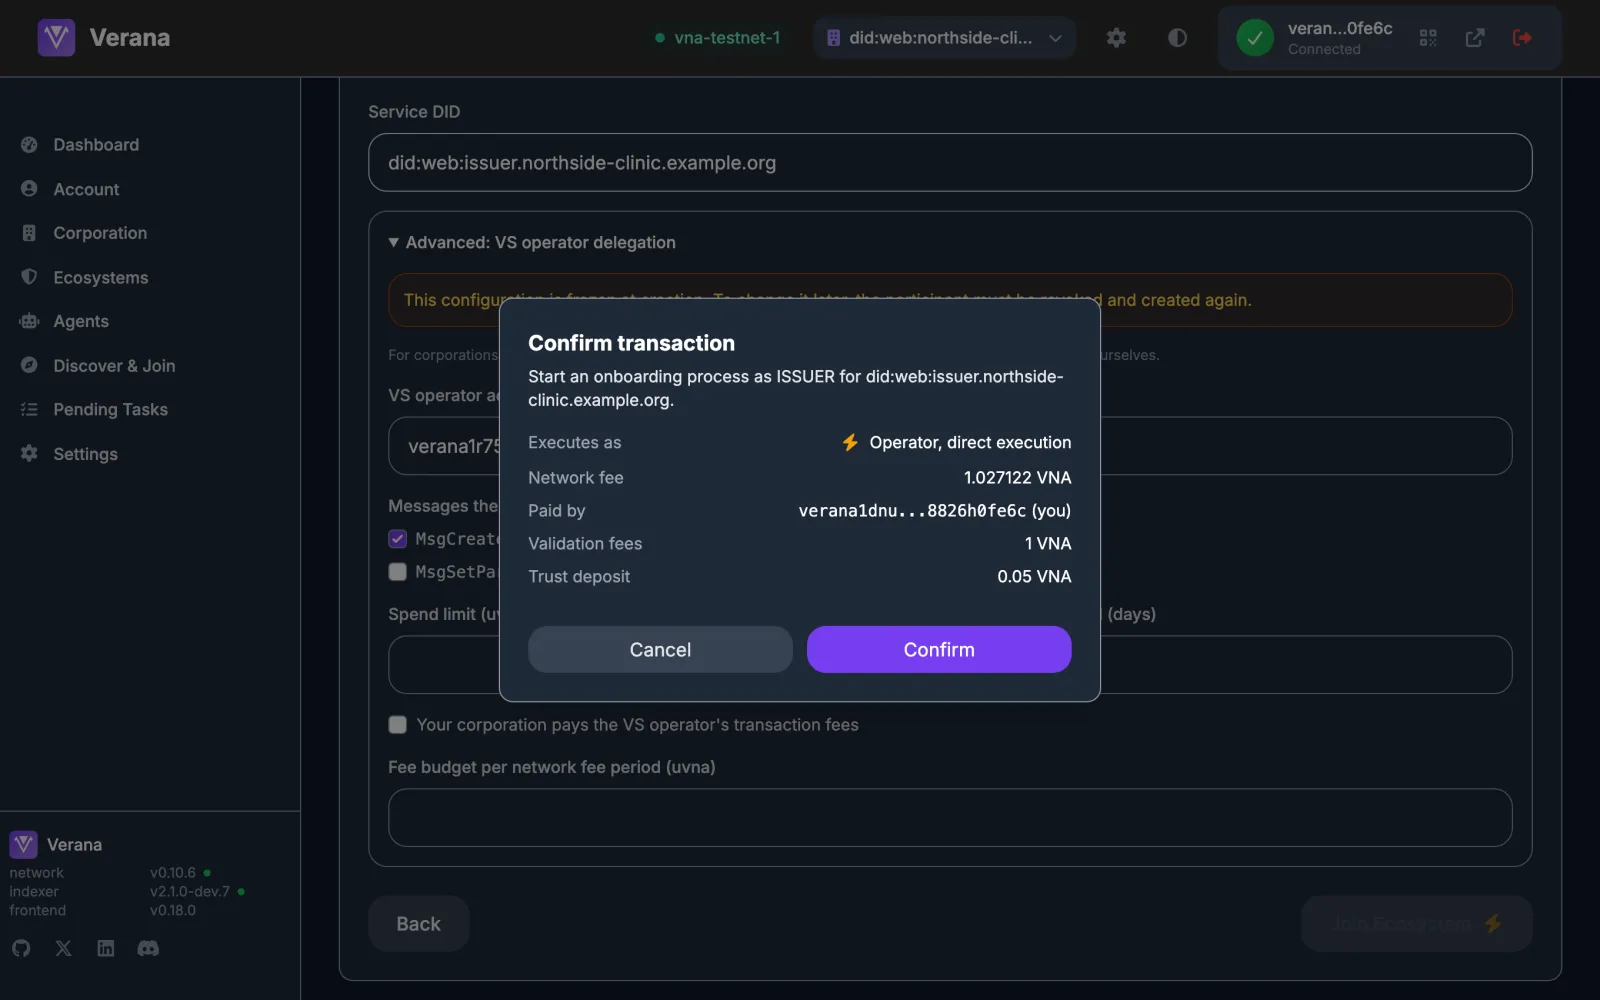
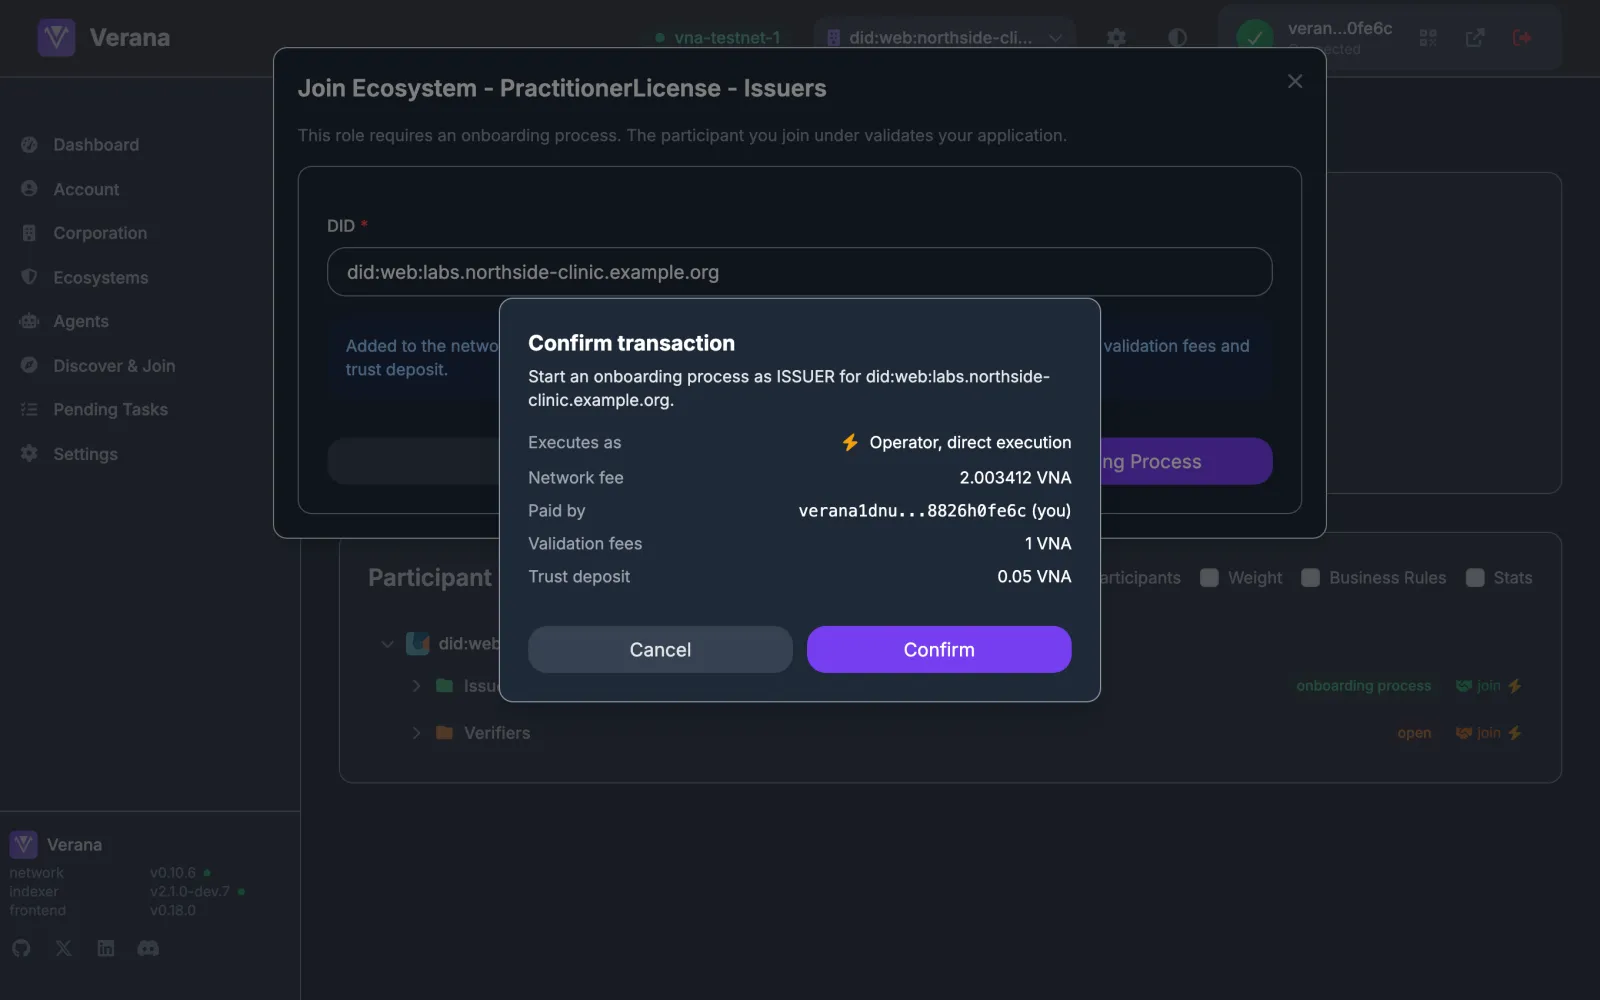
docs: join an ecosystem from the participant tree

diff --git a/docs/build/ecosystems/35-join-an-ecosystem.md b/docs/build/ecosystems/35-join-an-ecosystem.md
@@ -1,93 +1,96 @@
 ---
 title: Join an ecosystem
-description: "Find an ecosystem in Discover & Join, then use the join wizard to apply for a role: schema, role, governance framework, validator, service DID and the agent's delegation."
+description: "Find the ecosystem, open the schema's participant tree, join under the participant that will validate you, accept the governance framework, fill the form and sign."
 sidebar_position: 35
 persona: ecosystem-builder
 surface: frontend
-verified_on: 2026-10-14 (testnet v0.10.6, frontend 0.18 with the join wizard of frontend#503)
+verified_on: 2026-10-16 (testnet v0.10.6, frontend 0.18 with frontend#549 and frontend#550)
 ---
 
 # Join an ecosystem
 
-This is the other side of the tree: your corporation applies to issue or verify an ecosystem's credential. The ecosystem (or one of its grantors) validates the application from its [Pending Tasks](./40-validate-applicants.md); for an open role the participant exists at once.
+This is the other side of the tree: your corporation applies to issue, verify or hold an ecosystem's credential. You join from the schema's participant tree, under the participant you want as validator. When the role needs an onboarding process, that participant validates your application from its [Pending Tasks](./40-validate-applicants.md); when the role is open, your participant exists at once.
 
 ## Prerequisites
 
-- A corporation acting in the frontend, with an operator authorization covering the participant messages. See [Create a corporation](./10-create-corporation.md).
+- A corporation acting in the frontend, with an operator authorization covering the participant messages. See [Create a corporation](./10-create-corporation.md). A holder of a permissionless schema needs neither, see [Holders](#holders).
 - The DID of the service that will hold the accreditation: your Verifiable Service's agent, already deployed.
-- The account of that agent, if it will act for the accreditation itself (the VS operator, below).
-- Enough VNA for the validation fees the validator charges, the trust deposit, and the network fee. The wizard shows them before you sign.
+- Enough VNA. The validation fees and the trust deposit come from the corporation's account, the network fee from the account that signs. The form and the confirmation dialog show them before you sign.
 
 ## Find the ecosystem
 
-**Discover & Join** lists every ecosystem on the network with its controller, its active schemas and its figures. Search by name or DID, sort, hide the ecosystems you own or already take part in, and open the governance framework with **EGF** before you commit. Each schema card shows its onboarding modes and validity periods.
+**Discover & Join** lists every ecosystem on the network with its controller, its active schemas and its figures. Search by name or DID, sort, hide the ecosystems you own or already take part in, and open the governance framework with **EGF** before you commit. Each schema card shows its onboarding modes and validity periods. **View Ecosystem** opens the ecosystem page.
 
 <Screenshot name="join/discover" alt="Discover & Join listing an ecosystem with its credential schema" />
 
-**Join** opens the wizard for that ecosystem.
+**Ecosystems** lists only the ecosystems your corporation controls or already takes part in, which is the quicker way back to one.
 
-## The join wizard
+## Open the participant tree
+
+On the ecosystem page, the **Participants** action of a schema card opens that schema's participant tree; the schema page has the same **Participants** button.
+
+The tree starts at the ecosystem's root participant. Under each participant sit folders for the roles that can join below it: **Issuers** and **Verifiers** under the root, or **Issuer Grantors** and **Verifier Grantors** when the schema uses grantors, then **Holders** under each issuer. Each folder shows its onboarding mode, **onboarding process** or **open**, and a **join** action.
+
+<Screenshot name="join/tree" alt="The participant tree of a schema with its role folders, their onboarding mode and the join action" />
+
+Where you join is your choice of validator. The folder you pick sits under one participant, and that participant validates your application, or anchors your entry for an open role. To join as issuer under a grantor rather than under the ecosystem, open the grantor's node and join its **Issuers** folder. Tick **Business Rules** to compare the fees of the candidates, and **Unresolvable services** to show participants whose DID does not resolve yet.
+
+**join** is offered under an active participant only. Without a wallet it asks you to connect; without an acting corporation it is disabled and its tooltip says why. Its icon says how it will run: a lightning bolt when your operator authorization covers the message, a gavel when it opens a proposal for the corporation's members.
+
+## Join
 
 <StepThrough>
-<Step title="Review the ecosystem" shot="join/step-review">
+<Step title="Accept the governance framework" shot="join/tree-egf">
 
-Who controls the ecosystem, its DID and trust state, and its figures. Continue when you are on the right one.
-
-</Step>
-<Step title="Pick the schema" shot="join/step-schema">
-
-The ecosystem's active credential schemas. Pick the credential you will issue or verify.
+The join dialog opens on the ecosystem governance framework in force, in the language you choose, with its on-chain digest. **Verified** means the document the frontend fetched matches the digest; if it does not, you cannot accept it. Read it, tick the acceptance, **Continue**.
 
 </Step>
-<Step title="Pick your role" shot="join/step-role">
+<Step title="Onboarding process: your DID" shot="join/tree-op-form">
 
-Issuer, verifier, or a grantor role when the schema has one, each with what it means. Holders do not onboard on chain when the schema is permissionless for holders: the wizard says so and links to the accredited issuers instead.
-
-</Step>
-<Step title="Accept the governance framework" shot="join/step-egf">
-
-The ecosystem governance framework in force, in the language you choose, with its on-chain digest. **Verified** means the document the frontend fetched matches the digest; if it does not, you cannot accept it. Read it, then tick the acceptance.
+For a role with an onboarding process, enter the **DID** that will hold the accreditation. The form shows what the transaction needs on top of the network fee: the validator's validation fees, escrowed until it decides, and your trust deposit. **Confirm & Start Onboarding Process**.
 
 </Step>
-<Step title="Pick the validator" shot="join/step-validator">
+<Step title="Open role: DID, window and fees" shot="join/tree-self-create">
 
-The participants that may validate your application for this role, with their fees. For an open role, this is the participant your entry will sit under.
-
-</Step>
-<Step title="Confirm and submit" shot="join/step-confirm">
-
-The summary (schema, role, onboarding transaction, validator, validation fees, trust deposit), then the **Service DID** that will hold the accreditation. For an open role you also set the start, the end and your own fees. **Join Ecosystem**.
+For an open role you create the participant yourself: the **DID**, the effective window (an empty start means now, an empty end means no end date) and, for an issuer, the fees you will charge, in uvna. **Confirm & Self Create Participant**.
 
 </Step>
 </StepThrough>
 
-### The agent's delegation
-
-**Advanced: VS operator delegation** lets your Verifiable Service's agent act for this accreditation without an operator of the corporation in the loop: the **VS operator account** (the agent's account), the messages it may run for this participant, an optional spend limit per period, and whether the corporation pays the agent's network fees, with a budget. It is frozen at creation: changing it later means revoking the participant and creating it again. Leave it empty if your operators sign for the participant from the frontend.
-
-:::warning Use the agent's own account
-The VS operator must not be an account that already holds an operator authorization of your corporation; the chain refuses the pair. Give the agent its own account.
-:::
-
 ## Sign
 
-The confirmation dialog shows the onboarding transaction, the network fee, the validation fees escrowed for the validator and the trust deposit, before the wallet asks you to sign.
+The confirmation dialog shows the transaction, the network fee and who pays it, the validation fees escrowed for the validator and the trust deposit, before the wallet asks you to sign.
 
 <Screenshot name="join/confirm-dialog" alt="The confirmation dialog of an onboarding process start" />
 
 ## After you submit
 
-- For a role that needs validation, your participant is created with its onboarding process **pending approbation**. The validator sees it in its Pending Tasks, and its agent and yours run the evidence conversation. See [Validate applicants](./40-validate-applicants.md).
+- For a role with an onboarding process, your participant appears in the tree under the validator, its onboarding process pending. Pending entries always show, whatever the filters. The validator finds it in its Pending Tasks, and its agent and yours run the evidence conversation. See [Validate applicants](./40-validate-applicants.md).
 - While it is pending, **Cancel Request** on your participant card cancels it and returns the escrowed fees.
 - Once validated, the participant is **active** until its end date. **Renew Onboarding Process** before the end starts a renewal with the same validator.
-- For an open role, the participant is effective from its start; no validation is needed.
+- For an open role, the participant exists at once and is effective from its start; no validation is needed. Tick **Unresolvable services** if its DID does not resolve yet.
 
 <Screenshot name="participants/card-own" alt="The participant card of an active issuer, seen by its own corporation" />
+
+The join form does not set a VS operator: an accreditation created from the tree has none, so your agent cannot sign for it under a VS operator authorization. See [Let the agent pay with corporation funds](../verifiable-services/81-pay-with-corporation-funds.mdx) for how to declare one.
+
+## Holders
+
+The **Holders** folder under an issuer follows the schema's holder onboarding mode.
+
+- **Issuer onboarding process**: the issuer is your validator. Join its **Holders** folder like any other role with an onboarding process: an acting corporation is required, then the governance framework, your DID and the confirmation. The issuer validates you, then issues the credential.
+- **Permissionless**: there is no on-chain onboarding and nothing to sign, no wallet or corporation needed. **join** opens a dialog that reads the issuer's DID document and sends you to the issuer: **Visit the issuer's website** when it publishes one, **Email the issuer** when it publishes a contact email.
+
+<Screenshot name="join/holder-website" alt="The holder dialog of a permissionless schema, linking to the issuer's website" />
+
+When the issuer publishes neither, the dialog asks you to get in touch with the issuer to find out how to get a credential issued.
+
+<Screenshot name="join/holder-contact" alt="The holder dialog when the issuer publishes no website or email" />
 
 ## Verify
 
 ```bash
-curl -s 'https://idx.testnet.verana.network/v4/participant/list?schema_id=<schema id>&did=<service did>' | jq '.participants[] | {id, role, op_state, vs_operator, effective_from, effective_until}'
+curl -s 'https://idx.testnet.verana.network/v4/participant/list?schema_id=<schema id>&did=<service did>' | jq '.participants[] | {id, role, op_state, validator_participant_id, effective_from, effective_until}'
 ```
 
 ## Next

diff --git a/docs/build/ecosystems/11-operators-proposals.md b/docs/build/ecosystems/11-operators-proposals.md
@@ -66,7 +66,7 @@ With threshold one and a single member, a proposal you submit executes at once. 
 
 ## Agents are different
 
-An agent's authorization is not granted here. It is declared on each accreditation when you create or apply for it, as the VS operator with its message types and optional fee grant. The Operators tab's **Agent Authorizations** section and the **Agents** page show them read only. See [Join an ecosystem](./35-join-an-ecosystem.md) and [Pay with corporation funds](../verifiable-services/81-pay-with-corporation-funds.mdx).
+An agent's authorization is not granted here. It is declared on each accreditation when you create or apply for it, as the VS operator with its message types and optional fee grant. The frontend's join form does not declare one; it is set from the command line. The Operators tab's **Agent Authorizations** section and the **Agents** page show them read only. See [Pay with corporation funds](../verifiable-services/81-pay-with-corporation-funds.mdx#how-it-is-declared).
 
 <Screenshot name="corporation/tab-operators-agents" alt="The Operators tab with an operator and an agent authorization" />
 

diff --git a/docs/build/ecosystems/index.md b/docs/build/ecosystems/index.md
@@ -12,7 +12,7 @@ The Verana Frontend is the console of a corporation: members and operators, ecos
 | Corporation | [create a corporation](./10-create-corporation.md), [operators, proposals and fee grants](./11-operators-proposals.md), [corporation governance framework](./12-corporation-governance.md) |
 | Ecosystem | [create an ecosystem and publish its governance framework](./20-create-ecosystem.md), [run the ecosystem anchor](./21-ecosystem-anchor.md) |
 | Schemas and tree | [define a credential schema](./30-credential-schemas.md), [root participants and grantors](./31-root-participants-grantors.md) |
-| Join | [join an ecosystem](./35-join-an-ecosystem.md), the applicant's side |
+| Join | [join an ecosystem](./35-join-an-ecosystem.md) from a schema's participant tree, the applicant's side |
 | Operate | [validate applicants](./40-validate-applicants.md), [revoke, slash and repay](./41-revoke-slash-repay.md) |
 | Money | [design the fee model](./50-fee-model.md) |
 | Identity for your sector | [offer identity schemas for your sector](./60-identity-schemas-for-your-sector.md) |

diff --git a/docs/build/ecosystems/05-get-started.md b/docs/build/ecosystems/05-get-started.md
@@ -79,7 +79,7 @@ The navigation follows what the acting corporation can do.
 | **Corporation** | Members, governance framework, trust deposit, operators and proposals of the acting corporation. |
 | **Ecosystems** | The ecosystems your corporation controls, their governance frameworks, schemas and participant trees. |
 | **Agents** | The Verifiable Services your corporation operates and their accreditations. |
-| **Discover & Join** | Every ecosystem on the network, and the wizard to join one. See [Join an ecosystem](./35-join-an-ecosystem.md). |
+| **Discover & Join** | Every ecosystem on the network. You join one from a schema's participant tree. See [Join an ecosystem](./35-join-an-ecosystem.md). |
 | **Pending Tasks** | Applications waiting for your validation. The badge counts them. See [Validate applicants](./40-validate-applicants.md). |
 | **Settings** | Language, theme and the endpoints the frontend uses. |
 

diff --git a/docs/build/ecosystems/00-path.md b/docs/build/ecosystems/00-path.md
@@ -37,7 +37,7 @@ flowchart LR
 3. [Create the ecosystem](./20-create-ecosystem.md) with that DID and your governance framework.
 4. [Define credential schemas](./30-credential-schemas.md). The anchor publishes their schema credentials automatically.
 5. [Create root participants and grantors](./31-root-participants-grantors.md).
-6. Announce, and [validate applicants](./40-validate-applicants.md) as they come. Applicants use [Discover & Join](./35-join-an-ecosystem.md).
+6. Announce, and [validate applicants](./40-validate-applicants.md) as they come. Applicants [join from the schema's participant tree](./35-join-an-ecosystem.md), under the participant they want as validator.
 7. [Design the fee model](./50-fee-model.md) and watch the tree.
 
 ## Where to look while you build
